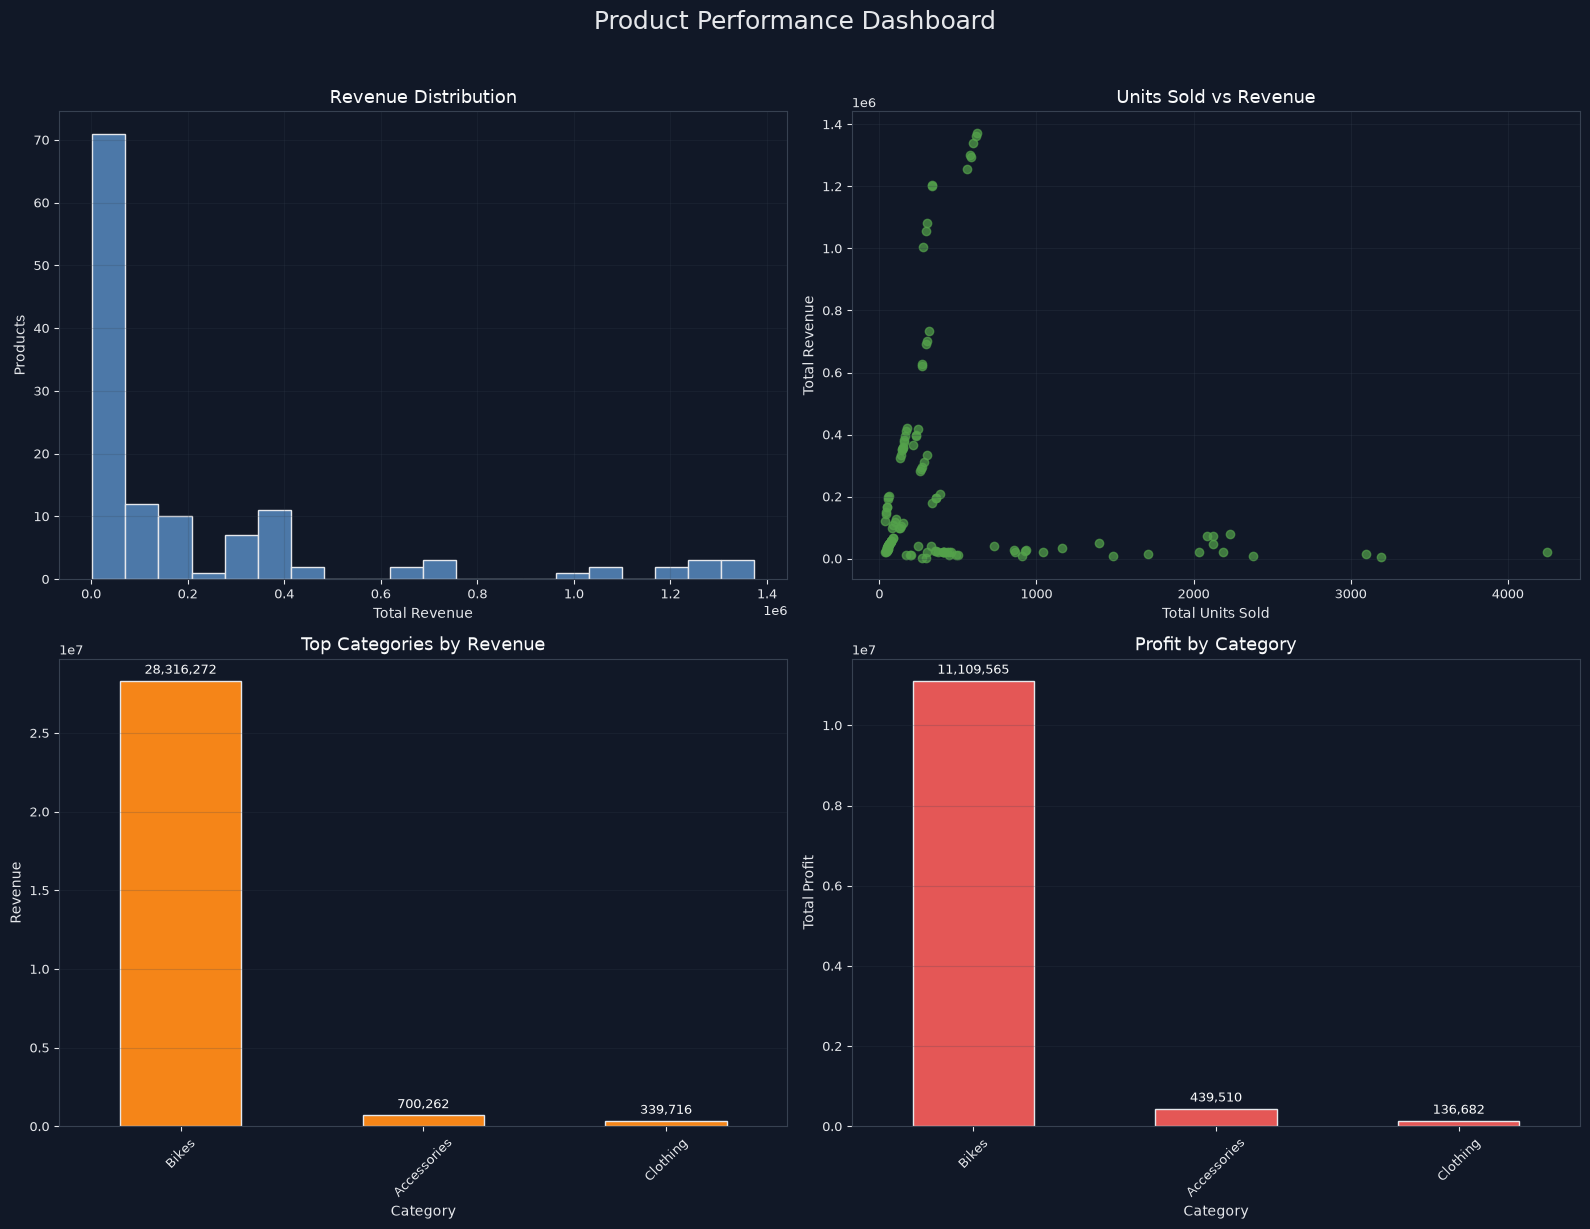
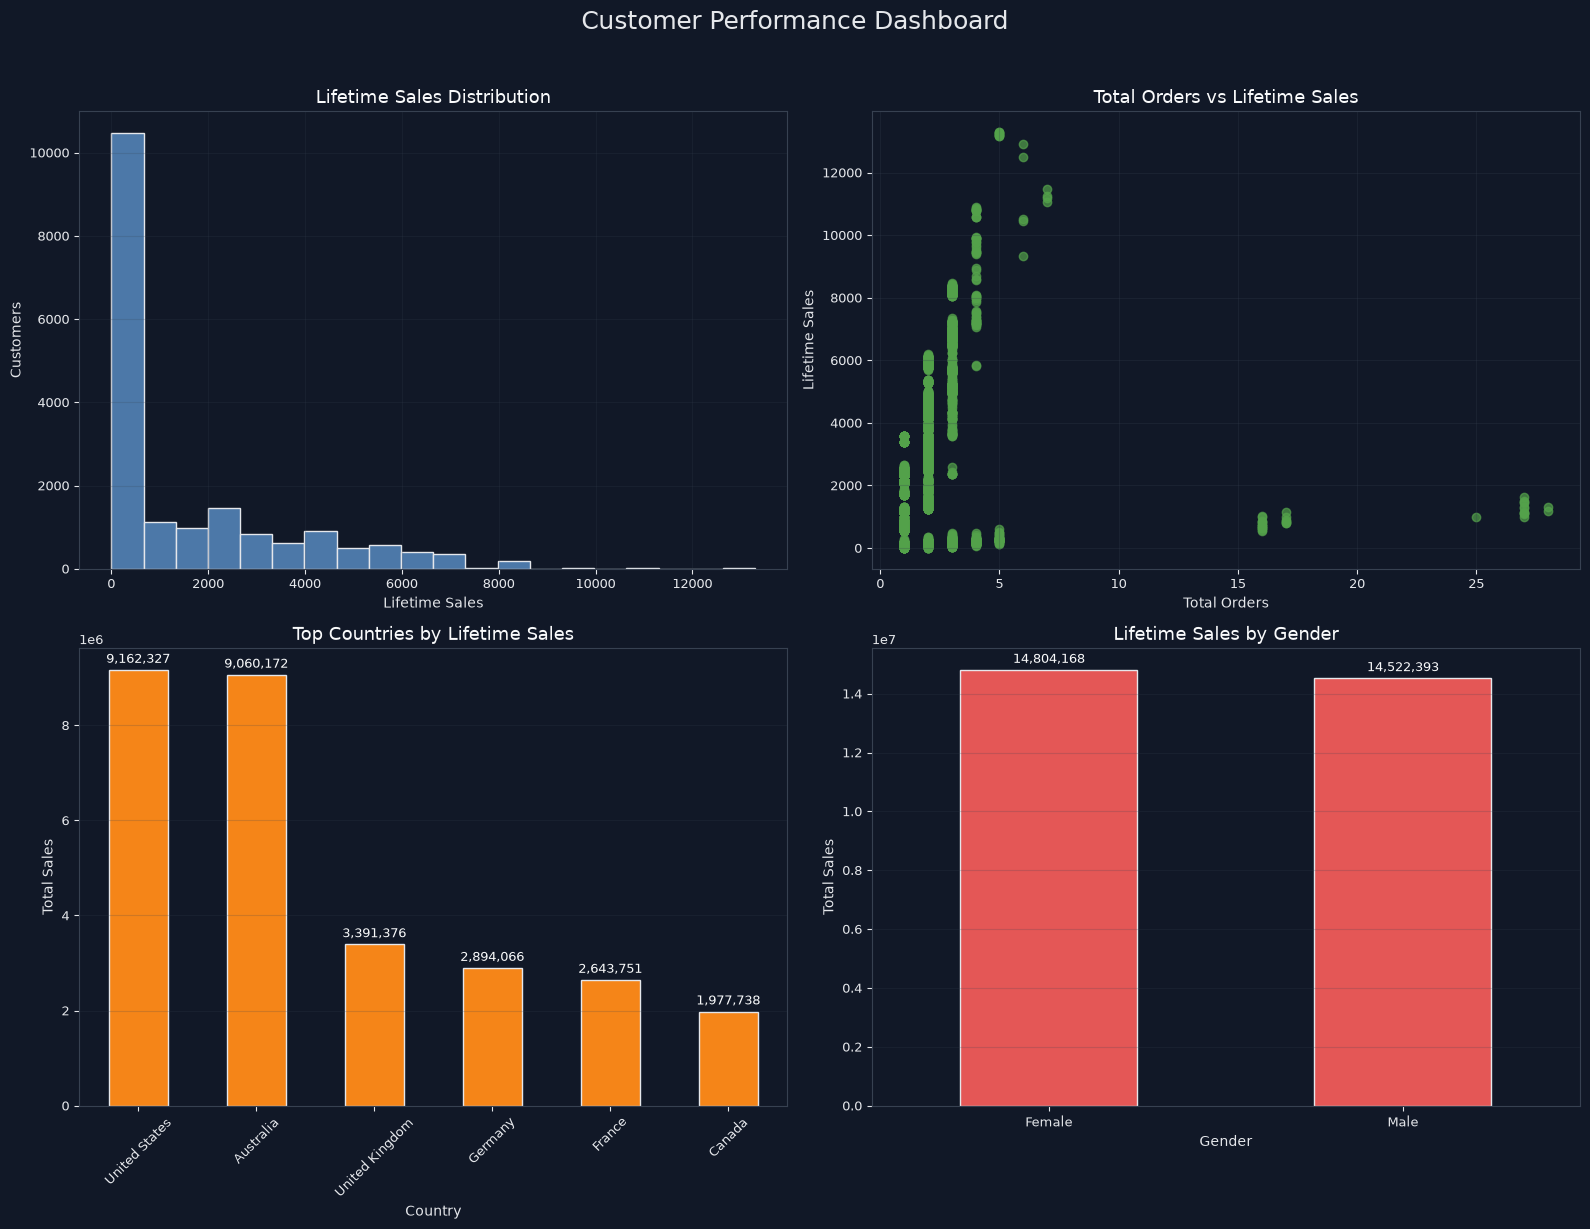
Edit charts

diff --git a/README.md b/README.md
@@ -72,8 +72,8 @@ Displays four key customer analytics visualizations:
 4. **Revenue by Gender** (Bar Chart) — Gender-based customer segmentation
 5. **Top 10 Customers by Name** (Detail Chart) — Named customer showcase sorted by lifetime sales
 
-![Customer Performance Dashboard](ecommerce_analytics/docs/.png)
-![Top 10 Customers by Lifetime Sales](ecommerce_analytics/docs/.png)
+![Customer Performance Dashboard](ecommerce_analytics/docs/customer_dashboard.png)
+![Top 10 Customers by Lifetime Sales](ecommerce_analytics/docs/top_10_customers.png)
 
 **Features:**
 - Dark theme styling for professional presentation
@@ -92,8 +92,8 @@ Displays four key product analytics visualizations:
 4. **Profit by Category** (Bar Chart) — Profitability analysis with margin insights
 5. **Top 10 Products by Revenue** (Detail Chart) — Individual product performance
 
-![Product Performance Dashboard](ecommerce_analytics/docs/.png)
-![Top 10 Products by Revenue](ecommerce_analytics/docs/.png)
+![Product Performance Dashboard](ecommerce_analytics/docs/product_dashboard.png)
+![Top 10 Products by Revenue](ecommerce_analytics/docs/top_10_products.png)
 
 **Features:**
 - Dark theme styling consistent with customer dashboard
